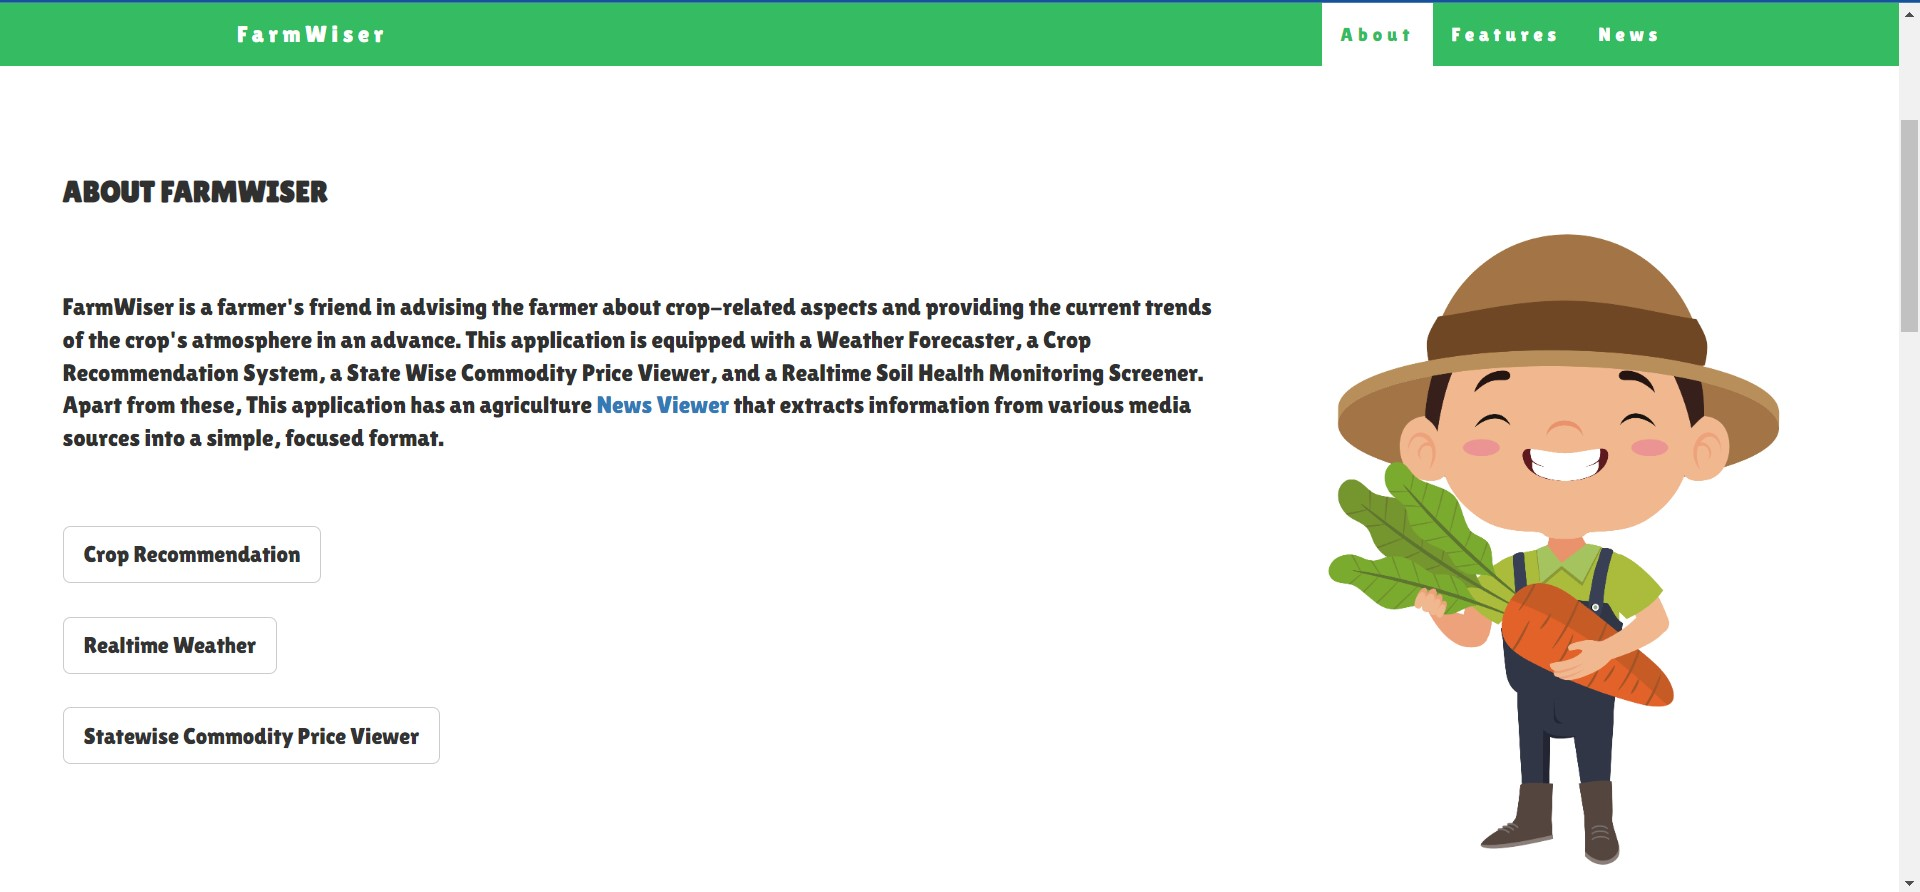
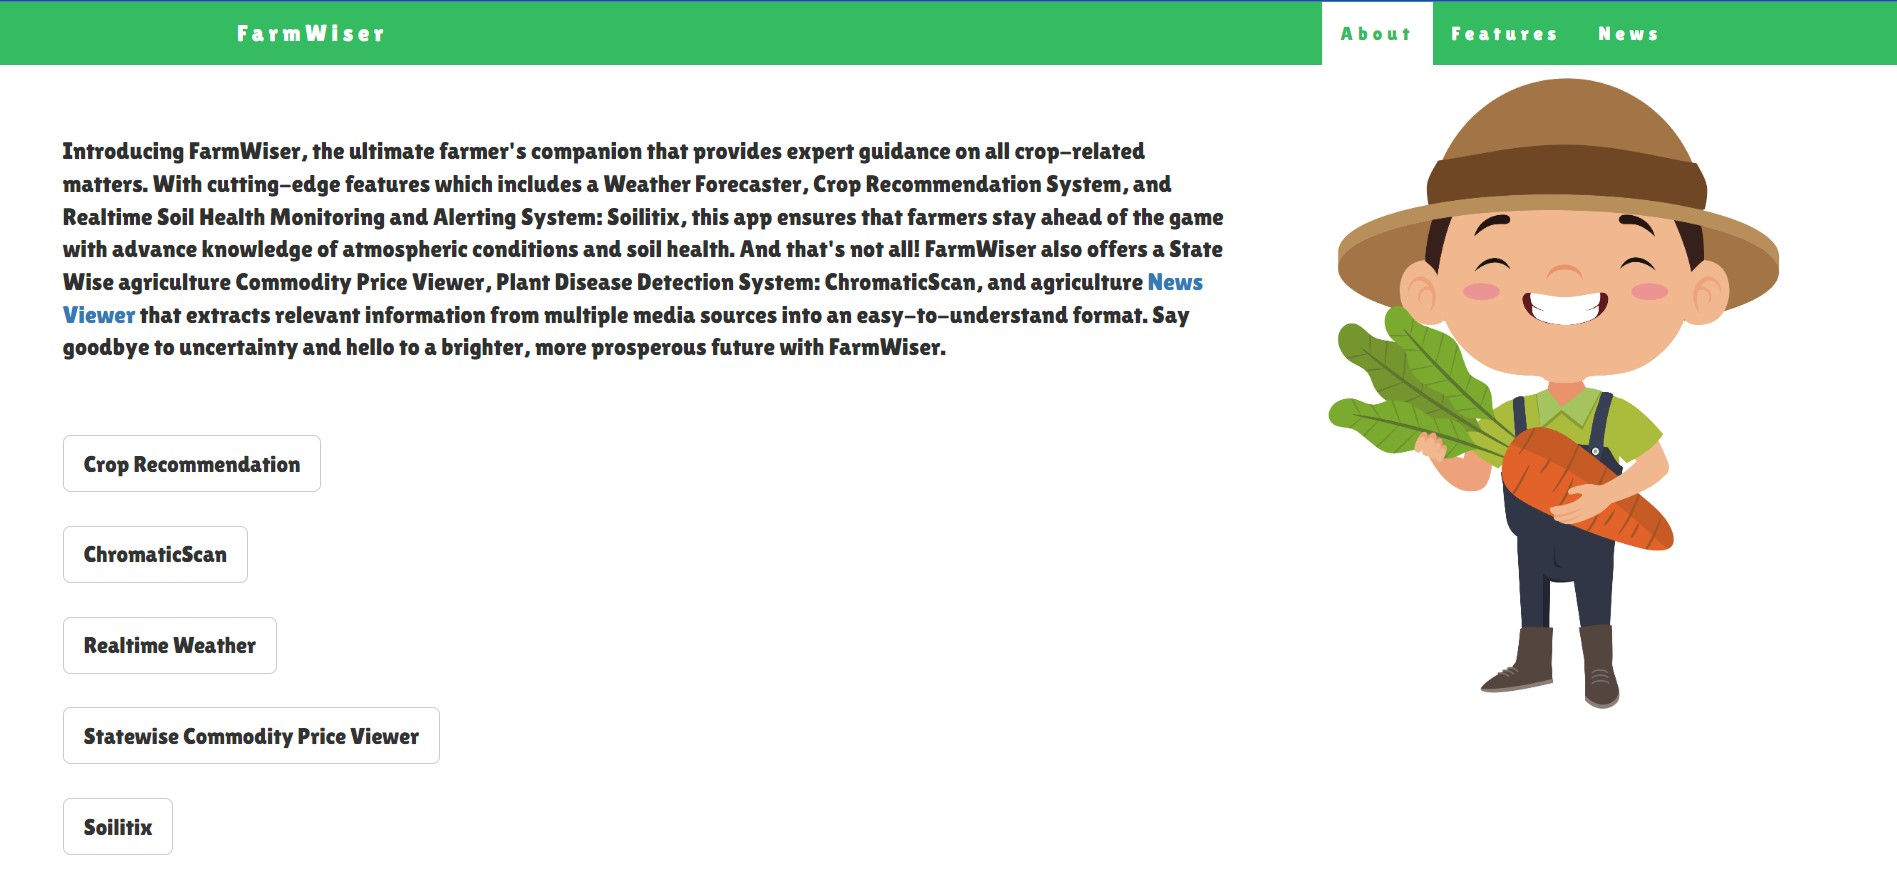
fixes

diff --git a/FarmWiserApp/templates/index.html b/FarmWiserApp/templates/index.html
@@ -47,12 +47,7 @@
         <div class="row">
             <div class="col-sm-8">
                 <h2>About FarmWiser</h2><br>
-                <h4>FarmWiser is a farmer's friend in advising the farmer about crop-related aspects and providing the
-                    current trends of the crop's atmosphere in advance. This application is equipped with a Weather
-                    Forecaster, a Crop Recommendation System, a State Wise Commodity Price Viewer, and a Realtime Soil
-                    Health Monitoring Screener. Apart from these, This application has an agriculture
-                    <a href=#news>News Viewer</a> that extracts information from various media sources into a simple,
-                    focused format.
+                <h4>Introducing FarmWiser, the ultimate farmer's companion that provides expert guidance on all crop-related matters. With cutting-edge features which includes a Weather Forecaster, Crop Recommendation System, and Realtime Soil Health Monitoring and Alerting System: Soilitix, this app ensures that farmers stay ahead of the game with advance knowledge of atmospheric conditions and soil health. And that's not all! FarmWiser also offers a State Wise agriculture Commodity Price Viewer, Plant Disease Detection System: ChromaticScan, and agriculture <a href=#news>News Viewer</a> that extracts relevant information from multiple media sources into an easy-to-understand format. Say goodbye to uncertainty and hello to a brighter, more prosperous future with FarmWiser.
                 </h4>
                 <br><a href="{{ url_for('cropRecommender') }}"><button class="btn btn-default btn-lg">Crop
                         Recommendation</button></a>

diff --git a/README.md b/README.md
@@ -3,7 +3,7 @@
 
 ![AI-Farm](/Images/AI-Farm.png)
 
-Farmwiser is a cutting-edge project that combines the power of Machine Learning and Internet of Things (IoT) to provide advanced analytics and insights to farmers. With Farmwiser, farmers can monitor and analyze soil health, crop growth, weather patterns, and pest infestation, among other things.
+Farmwiser is a cutting-edge project that combines the power of AI/ML and Internet of Things (IoT) to provide advanced analytics and insights to farmers. With Farmwiser, farmers can monitor and analyze soil health, crop growth, weather patterns, and pest infestation, among other things.
 
 Using TinyML, the system processes real-time data from sensors and cameras placed in the farm and generates personalized recommendations to optimize the farming process, such as when to irrigate, fertilize, or harvest crops.
 
@@ -15,6 +15,9 @@ Farmwiser's user-friendly interface allows farmers to access data and recommenda
 ## ⭐ Integrated Applications:
 ## 1. [ChromaticScan](https://chromaticscan.streamlit.app/)
 <hr>
+<br>
+
+![ChromaticScan](/Images/chromaticscan.jpg)
 
 **ChromaticScan is a state-of-the-art convolutional neural network (CNN) algorithm that is specifically designed for detecting plant diseases. It utilizes transfer learning by fine-tuning the ResNet 34 model on a large dataset of leaf images to achieve an impressive 99.2% accuracy in detecting various plant diseases. The algorithm is trained to identify specific patterns and features in the leaf images that are indicative of different types of diseases, such as leaf spots, blights, and wilts.**
 
@@ -22,6 +25,10 @@ Farmwiser's user-friendly interface allows farmers to access data and recommenda
 
 ## 2. [Soilitix](https://soilitix.streamlit.app/)
 <hr>
+<br>
+
+![ChromaticScan](/Images/soilitixapp.jpg)
+
 
 **Soilitix is a web application designed for monitoring soil health. It allows farmers and gardeners to track important soil metrics such as temperature, moisture, and humidity. The application provides an easy-to-use interface that enables users to visualize and analyze their soil data, helping them make informed decisions about their crops and plants.**
 
@@ -99,21 +106,19 @@ Start the server
 
 ## ⭐ Web App Interface: FarmWiser
 
-![Responsive UI 1](/Images/31.png)
+![Responsive UI 1](/Images/about.jpg)
 
-![News Viewer](/Images/newsviewer.jpg)
+![News Viewer](/Images/Trending_News_Viewer.png)
 
-![Responsive UI 2](/Images/32.png)
-
-![Responsive UI 3](/Images/38.png)
+![Responsive UI 2](/Images/Commodity_Price_Viewer.png)
 
 <br>
 <br>
 
 ## ⭐ Hardware SetUp for Soil Health Monitoring
 
-![Soil Health Monitoring Flow](/Images/35.png)
+![Soil Health Monitoring Flow](/Images/Soilitix.png)
 
-![Soil Health Monitoring](/Images/36.png)
+![Soilitx Hardware](/Images/38.png)
 
-![Soil Health Monitoring](/Images/37.png)
+![Soilitx Hardware](/Images/36.png)
